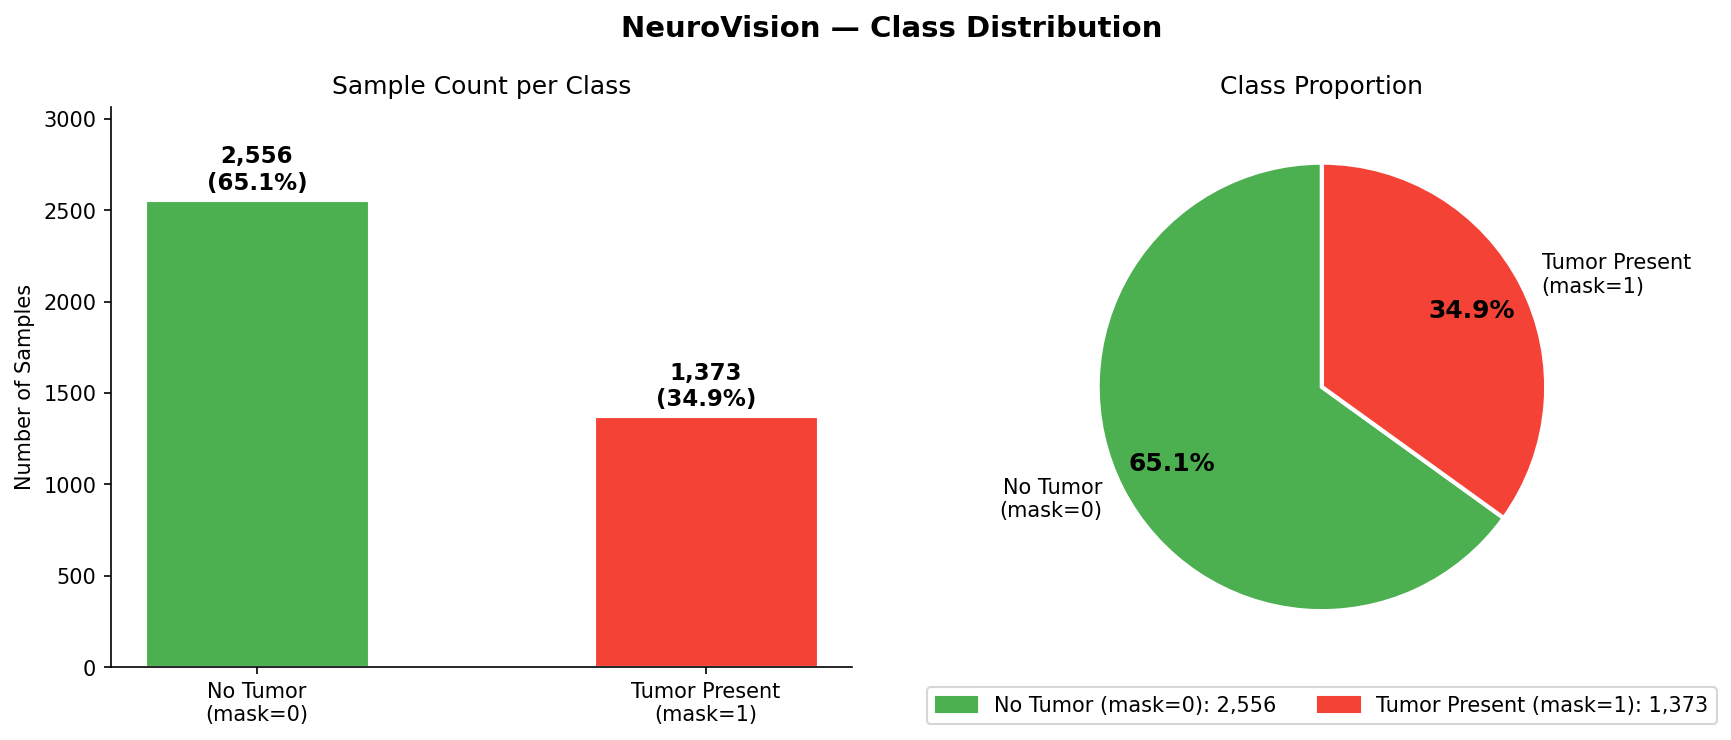
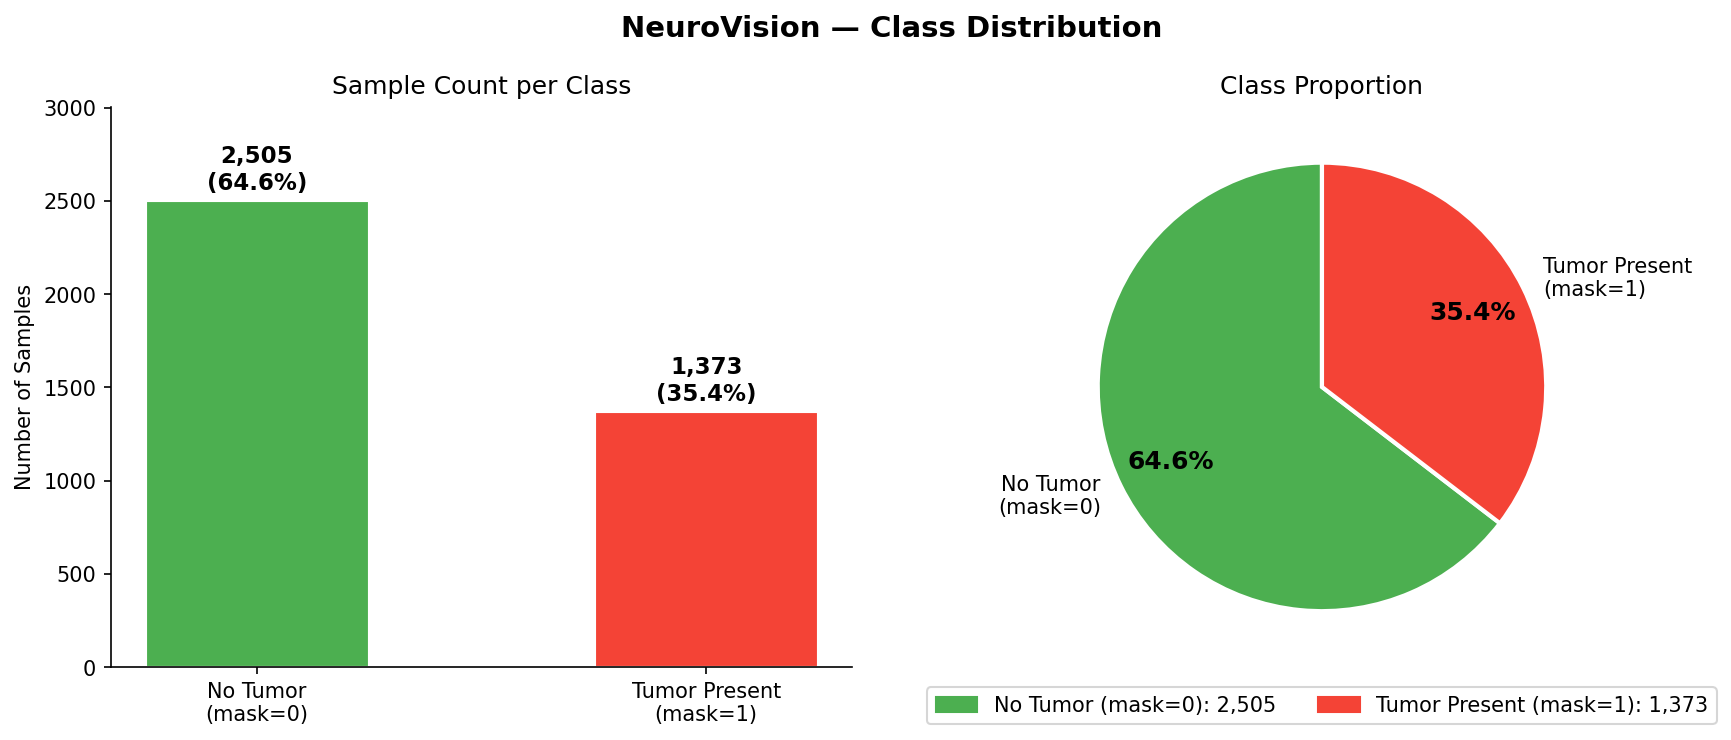
feat: update results after full image scan

diff --git a/dataset_quality.py b/dataset_quality.py
@@ -61,8 +61,8 @@ def generate_statistics(df: pd.DataFrame) -> dict:
 def _is_corrupted(img_path: str, mask_path: str) -> tuple[bool, str]:
     """
     Returns (is_corrupted, reason).
-    Checks: file exists, OpenCV can read it, image is not blank.
-    """
+    Checks: file exists, OpenCV can read it, image is not blank. 
+    """ 
     for label, path in [("image", img_path), ("mask", mask_path)]:
         full = os.path.join(IMG_ROOT, path)
         if not os.path.isfile(full):
@@ -70,9 +70,9 @@ def _is_corrupted(img_path: str, mask_path: str) -> tuple[bool, str]:
         img = cv2.imread(full, cv2.IMREAD_GRAYSCALE)
         if img is None:
             return True, f"{label}_unreadable"
-        if img.std() < 1.0:
+        if label == "image" and img.std() < 1.0:
             return True, f"{label}_blank"
-    return False, ""
+    return False, "" 
 
 
 def filter_corrupted(df: pd.DataFrame) -> tuple[pd.DataFrame, list]: